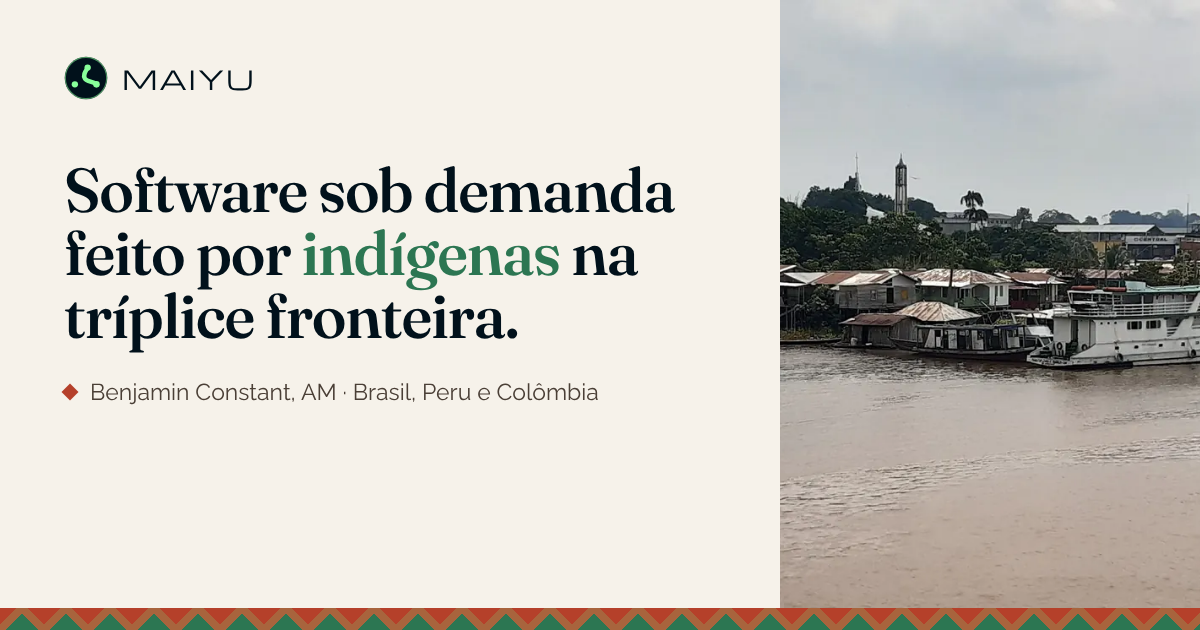
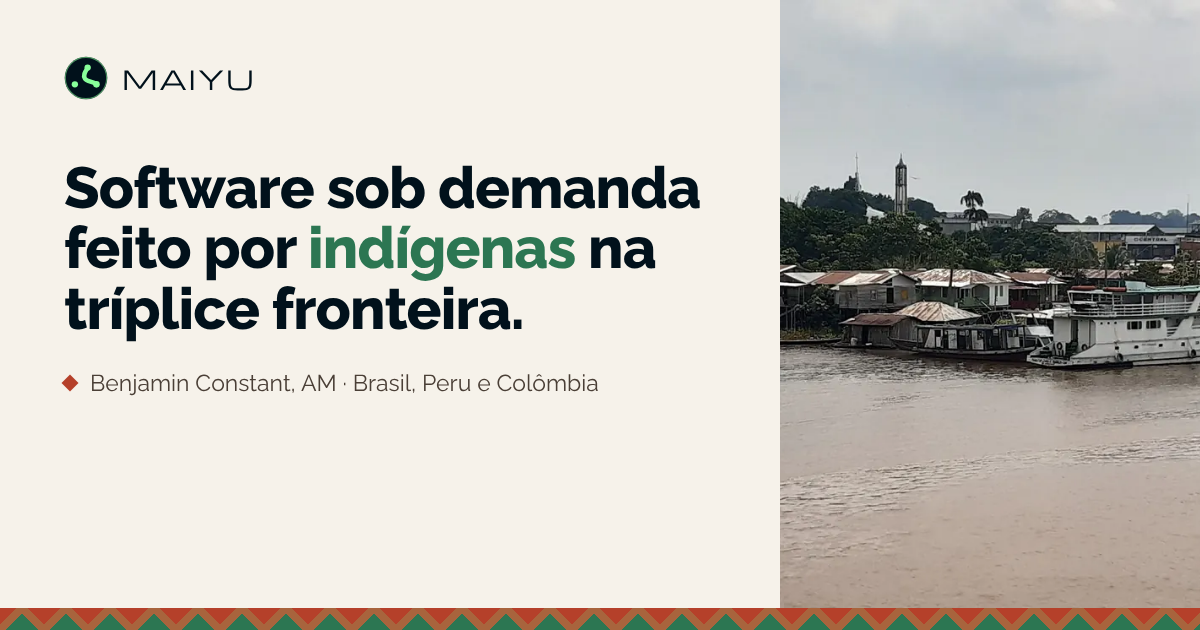
fix(vitrine): devolve os títulos à Raleway da marca
O dono não gostou da serifa que entrou no redesign: h1 e h2 voltam à
Raleway no peso 800, como antes, e a Fraunces sai do projeto. A imagem de
compartilhamento é refeita com a Raleway. O resto da direção editorial
(fotos, trançado, layout) fica. DECISIONS #16.

Changed region(s): [[0.0308, 0.2413, 0.5858, 0.573], [0.0308, 0.6032, 0.4933, 0.6333]]

diff --git a/frontend/src/styles.css b/frontend/src/styles.css
@@ -3,11 +3,9 @@
 @import 'shadcn/tailwind.css';
 
 /*
- * As quatro famílias, servidas do próprio bundle.
+ * As três famílias, servidas do próprio bundle.
  *
- * Fraunces é a voz editorial dos títulos grandes (h1 e h2): serifa com eixo
- * óptico, que segura o tamanho de capa sem virar letreiro. Raleway é a voz da
- * marca no corpo, na interface e nos títulos menores. Michroma só existe para o
+ * Raleway é a voz da marca, títulos e corpo. Michroma só existe para o
  * wordmark MAIYU, o lettering do logo; Geist Mono fica com número e código.
  *
  * Do pacote e não do Google Fonts: o site antigo já tinha trocado para o
@@ -16,7 +14,6 @@
  * às vezes não chega.
  */
 @import '@fontsource-variable/raleway';
-@import '@fontsource-variable/fraunces/opsz.css';
 @import '@fontsource/michroma';
 @import '@fontsource/geist-mono/400.css';
 @import '@fontsource/geist-mono/500.css';
@@ -252,7 +249,7 @@
   --color-brand-black: #272221;
   --color-brand-dark: #403937;
 
-  --font-display: 'Fraunces Variable', Georgia, 'Times New Roman', serif;
+  --font-display: 'Raleway Variable', Raleway, system-ui, sans-serif;
   --font-sans: 'Raleway Variable', Raleway, system-ui, sans-serif;
   --font-serif: 'Raleway Variable', Raleway, system-ui, sans-serif;
   --font-brand: Michroma, 'Raleway Variable', system-ui, sans-serif;
@@ -300,34 +297,27 @@
     @apply bg-background font-sans text-foreground;
   }
 
+  /*
+   * Os títulos na Raleway da marca, no peso pesado de antes do redesign: o dono
+   * preferiu a voz da marca à serifa editorial (`docs/DECISIONS.md` #16).
+   */
   h1,
   h2,
   h3,
   h4,
   h5,
   h6 {
+    font-family: var(--font-display);
+    font-weight: 800;
+    letter-spacing: -0.012em;
     text-wrap: balance;
     overflow-wrap: break-word;
   }
 
-  /*
-   * Capa e capítulo em Fraunces, no peso médio e com o eixo óptico solto:
-   * serifa pesada em 6rem vira cartaz, e o editorial quer jornal.
-   */
-  h1,
-  h2 {
-    font-family: var(--font-display);
-    font-weight: 560;
-    font-optical-sizing: auto;
-    letter-spacing: -0.02em;
-  }
-
-  /* Título de bloco é interface: Raleway, que é a voz da marca. */
   h3,
   h4,
   h5,
   h6 {
-    font-family: var(--font-sans);
     font-weight: 700;
     letter-spacing: -0.005em;
   }

diff --git a/frontend/src/routes/_public/-components/page-hero.tsx b/frontend/src/routes/_public/-components/page-hero.tsx
@@ -13,7 +13,7 @@ type PageHeroProps = {
 }
 
 /**
- * A capa editorial das páginas internas: título grande em Fraunces à
+ * A capa editorial das páginas internas: título grande à
  * esquerda, a frase de apoio e o trançado como fio de base.
  *
  * Sem ilustração: a página abre só com tipografia, e a foto de lugar entra

diff --git a/frontend/src/routes/_public/blog/$slug.lazy.tsx b/frontend/src/routes/_public/blog/$slug.lazy.tsx
@@ -87,7 +87,7 @@ const BLOCKS: Record<
 }
 
 /**
- * Um artigo do diário, inteiro: capa em Fraunces, foto de lugar com crédito e
+ * Um artigo do diário, inteiro: capa, foto de lugar com crédito e
  * o corpo numa coluna de leitura.
  *
  * O corpo vem de `articles.ts` já nas três línguas, bloco a bloco. Quando o

diff --git a/docs/DECISIONS.md b/docs/DECISIONS.md
@@ -21,10 +21,11 @@
 | 9 | 2026-11-04 | `frontend/.env.example` do modelo com chaves que o site não usa | o arquivo traz `VITE_API_URL`, `STORAGE_PUBLIC_URL`, `VITE_UPLOAD_MAX_SIZE`, `E2E_*` e as demais do modelo; `ENV.md` diz que nenhuma é lida | o modelo é fechado e o sync exige as mesmas chaves, na mesma ordem, em todo projeto | podar o arquivo: o `--check` acusa `env-diverge` | chaves mortas no arquivo; pendente de ajuste no upstream |
 | 10 | 2026-11-04 | Animação em CSS, sem `motion` | `REVEAL` e `STAGGER` de `reveal.ts`, com `motion-reduce:` em tudo; o `motion` fica no `package.json` e nada o importa | CSS não carrega JavaScript de animação e respeita `prefers-reduced-motion` por classe | `motion` nas revelações: bundle maior e hidratação mais cara | dependência instalada sem uso, por paridade com o academy; `vitrine-contract.test.ts` reprova se ele voltar |
 | 11 | 2026-11-04 | Todos os componentes do shadcn instalados | `components/ui/` tem o registry inteiro (`shadcn add --all`), e as telas usam o componente do `ui/` no lugar de todo elemento feito à mão que tenha equivalente | decisão do dono: um conjunto só de componentes em todas as páginas | instalar só o que se usa e remover o resto, como manda `_standards/frontend.md` §6 ("componente de `ui/` sem nenhum consumidor sai") | desvio da régua: ficam no repositório componentes sem consumidor num site institucional (sidebar, chart, calendar, input-otp, menubar, resizable, code-block, trace, chat). Levar ao upstream a exceção ou a mudança da regra |
-| 12 | 2026-11-04 | Direção visual editorial | a vitrine troca o mundo ilustrado (céu, mata e folha em SVG) por fotografia do lugar, tipografia grande em Fraunces nos títulos e a cestaria como assinatura | decisão do dono: um redesign mais profissional no contexto da região | evoluir o ilustrado: o dono escolheu a nova direção | `SkyBackdrop`, `Forest` e `Glider` saem das páginas; `DESIGN.md` §1, §3 e §3.1 reescritos |
+| 12 | 2026-11-04 | Direção visual editorial | a vitrine troca o mundo ilustrado (céu, mata e folha em SVG) por fotografia do lugar, tipografia grande em Fraunces nos títulos e a cestaria como assinatura | decisão do dono: um redesign mais profissional no contexto da região | evoluir o ilustrado: o dono escolheu a nova direção | `SkyBackdrop`, `Forest` e `Glider` saem das páginas; `DESIGN.md` §1, §3 e §3.1 reescritos (tipografia substituída por #16) |
 | 13 | 2026-11-04 | Fotos de terceiros com crédito, sem rosto | sem acervo próprio, o site usa paisagem do Wikimedia Commons (CC0 e CC BY-SA) com autor e licença na legenda, a partir de `lib/photos.ts`; rosto de pessoa indígena de banco de imagem não entra | a licença exige o crédito, e foto de banco não traz o consentimento de quem aparece | Unsplash e afins: o proxy do ambiente bloqueia, e a licença deles não pede crédito, o que tiraria a rastreabilidade | foto nova só entra pelo registro; foto do time e das comunidades quando for da Maiyu |
 | 14 | 2026-11-04 | Workspace na raiz e workflows sem backend | substitui #1 e #6: o site vira workspace pnpm com `frontend/` e um `pnpm-lock.yaml` na raiz, e os workflows passam ao perfil sem backend do modelo (jhollyfer/maiyu-pattern#22) | a régua pede um workspace com lockfile na raiz (`_standards/tooling.md` §1), e o modelo de workflows roda `pnpm install` na raiz e `--filter ./frontend`; com o perfil sem backend o CI e o deploy deixam de depender de uma API que o site não tem | manter o projeto sem workspace: desvio da régua, e o CI do modelo não instala | secrets passam a ser `DOCKERHUB_*`, `COOLIFY_URL`, `COOLIFY_TOKEN`, `COOLIFY_APP_UUID` e `VITE_SITE_URL`; os scripts do `frontend/` ganham `i18n:compile`, `i18n:check`, `test:unit` e `format:check` |
 | 15 | 2026-11-04 | Health check em `/health-check` | substitui #5: a rota vira `routes/health-check.ts`, com `{ status: 'ok' }` e `no-store`, igual à dos irmãos; o `HEALTHCHECK` do `Dockerfile-production` e o painel do Coolify apontam para ela | a régua exige `GET /health-check` em todo frontend, nome exato e sem alias (`_standards/DECISIONS.md` #184); o `/health` era desvio | manter `/health`: proibido pela régua | o healthcheck do painel do Coolify precisa ser trocado para `/health-check` |
+| 16 | 2026-11-04 | Títulos de volta na Raleway | substitui a parte de tipografia da #12: h1 e h2 voltam à Raleway no peso 800, e a Fraunces sai do projeto | o dono não gostou da serifa; a Raleway é a fonte do guia da marca | trocar por outra serifa: o dono preferiu a fonte anterior | o resto da direção editorial (fotos, trançado, layout) fica |
 
 - **Tema** é a decisão como substantivo, não a pergunta.
 - **Custo aceito** é a consequência negativa honesta da escolha.

diff --git a/docs/CHANGELOG.md b/docs/CHANGELOG.md
@@ -17,7 +17,9 @@ Mudanças de Maiyu que quem usa percebe. Formato
 
 ### Alterado
 
-- Novo visual editorial: fotos de Benjamin Constant, do porto e de Letícia com crédito, títulos em serifa (Fraunces) e a faixa de trançado como divisor entre capítulos, no lugar do céu ilustrado.
+- Os títulos voltam à Raleway, a fonte da marca, no lugar da serifa.
+
+- Novo visual editorial: fotos de Benjamin Constant, do porto e de Letícia com crédito, a faixa de trançado como divisor entre capítulos, no lugar do céu ilustrado.
 - Portfólio com os cinco produtos no ar (ADACAIBS, MatisCraft, Aporta, Curupira e Jogos Estudantis), cada um com a captura real da tela.
 - Diário com quatro artigos novos sobre o trabalho da Maiyu na tríplice fronteira, assinados pela Equipe Maiyu.
 - Carreiras vira banco de talentos por área (desenvolvimento, design de produto, análise e dados), com o jeito de trabalhar da Maiyu no lugar de benefícios.

diff --git a/docs/DESIGN.md b/docs/DESIGN.md
@@ -61,12 +61,9 @@ Contraste conferido (AA), por cálculo de luminância relativa WCAG em 2026-11-0
 ## 3. Tipografia
 
 Famílias servidas do próprio bundle (`@fontsource`), para não depender de domínio de terceiro:
-
-- **Fraunces Variable** (`--font-display`, eixo óptico): h1 e h2, capa e capítulo, peso 560 e
-  `letter-spacing: -0.02em`. Serifa editorial, que segura o tamanho de capa sem virar cartaz.
-- **Raleway Variable** (`--font-sans`, `--font-serif`): voz da marca no corpo, na interface e nos
-  títulos de bloco (h3 a h6, peso 700).
-- **Michroma**: só o wordmark MAIYU. **Geist Mono**: só número e código.
+Raleway Variable (voz da marca, títulos e corpo; h1 e h2 no peso 800, h3 a h6 no 700), Michroma (só o
+wordmark MAIYU) e Geist Mono (número e código). A serifa editorial (Fraunces) que entrou no redesign
+saiu a pedido do dono (`DECISIONS.md` #16).
 
 | Papel | Token | Tamanho | Onde |
 |---|---|---|---|

diff --git a/docs/MEMORY.md b/docs/MEMORY.md
@@ -60,6 +60,7 @@ respondeu 404), e ficou de fora.
 
 | Data | Erro | Regra que evita | Vale para |
 |---|---|---|---|
+| 2026-11-04 | Fonte da marca trocada (Raleway por Fraunces) sem perguntar | identidade visual (fonte, cor, logo) só muda com o dono escolhendo; a direção do redesign não autoriza trocar a fonte do guia | todo projeto |
 | 2026-11-04 | Healthcheck passado ao dono como `/health` | o sinal de vida é `GET /health-check`, nome exato e sem alias (régua #184); conferir a régua antes de dar instrução de deploy | todo projeto |
 | 2026-11-04 | Contexto descrito só como amazônico | a Maiyu atende povos originários de qualquer país, não só da Amazônia; a origem é o Alto Solimões | este projeto |
 | 2026-11-04 | Workflows deixados fora do sync por conta própria | seguir os irmãos e a régua; regra que não serve muda no upstream, não se contorna no projeto | todo projeto |
